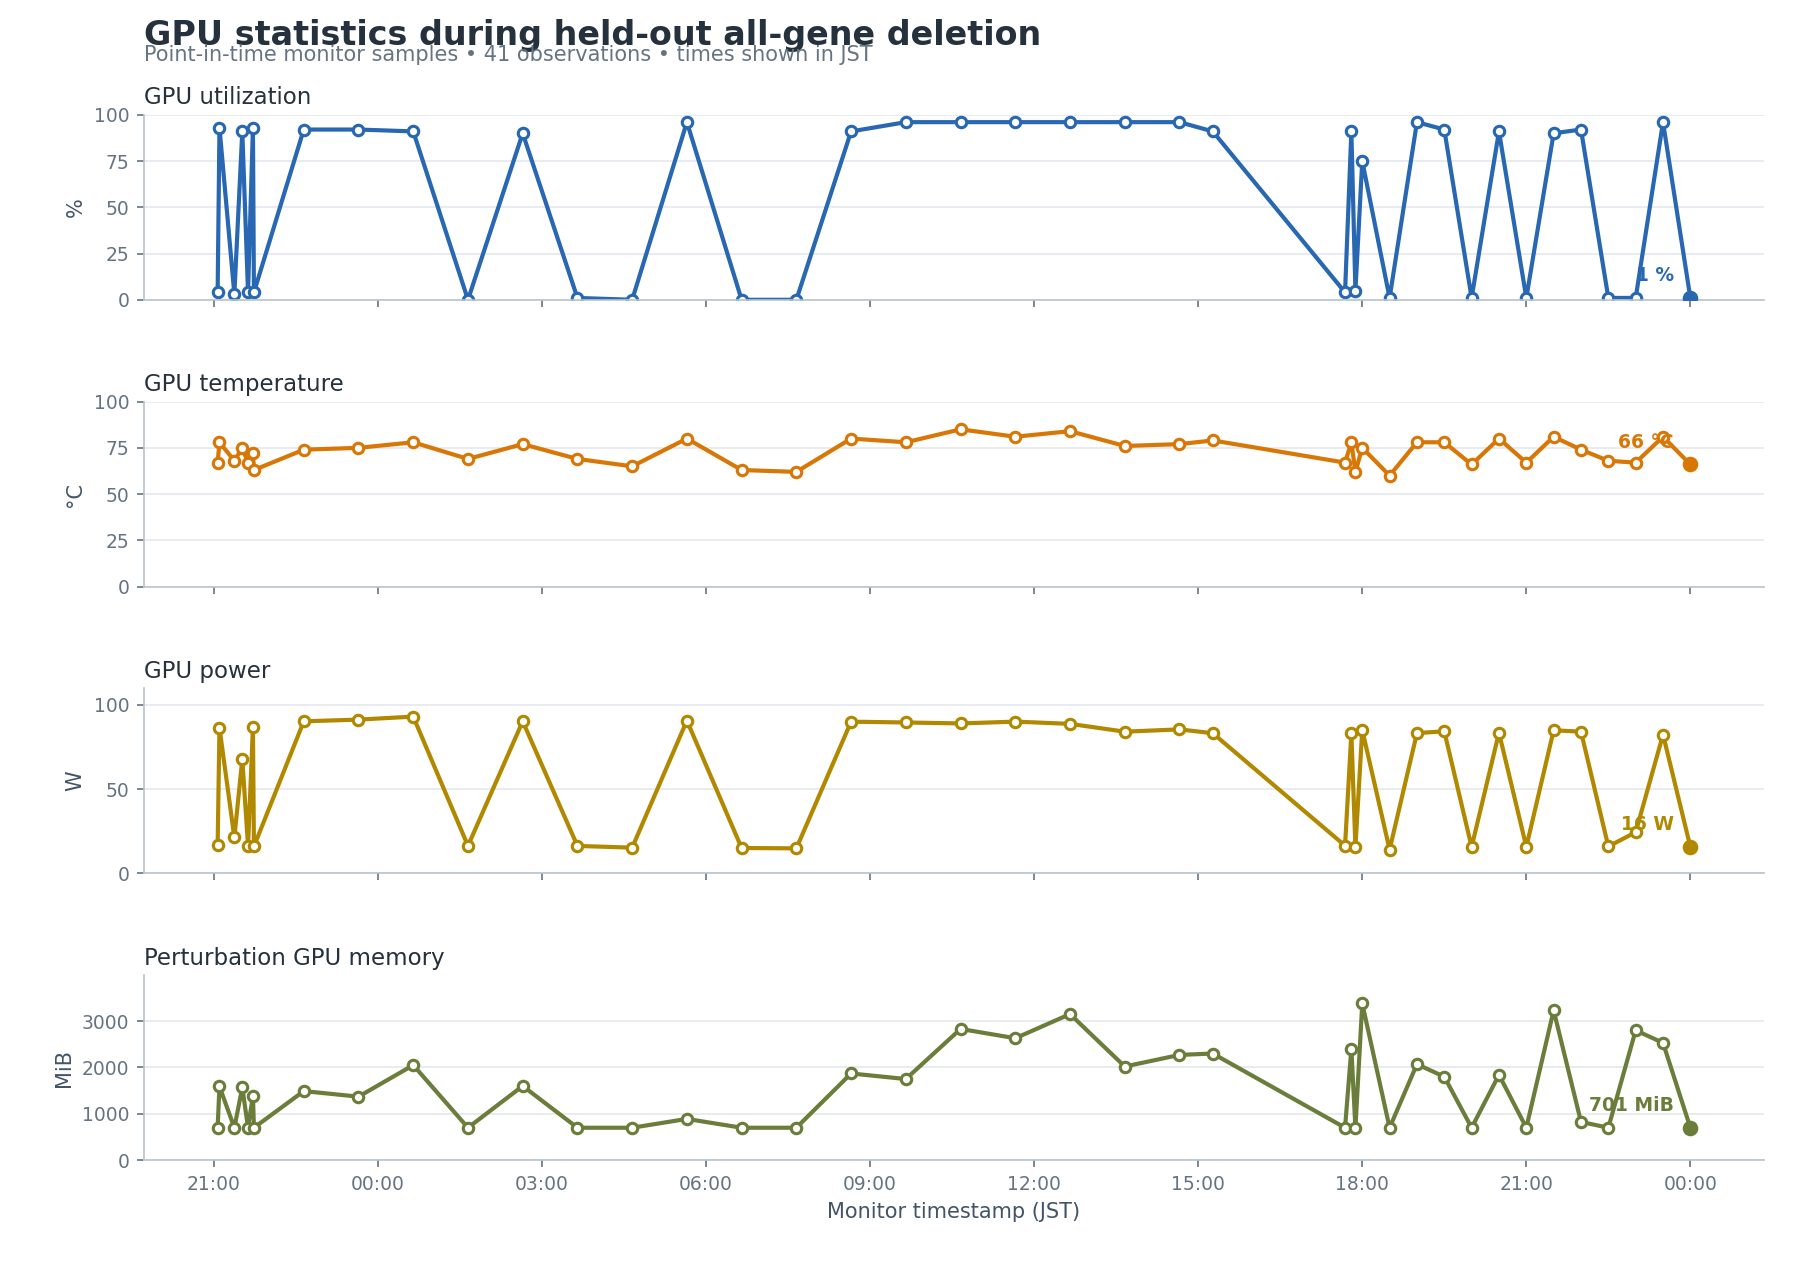
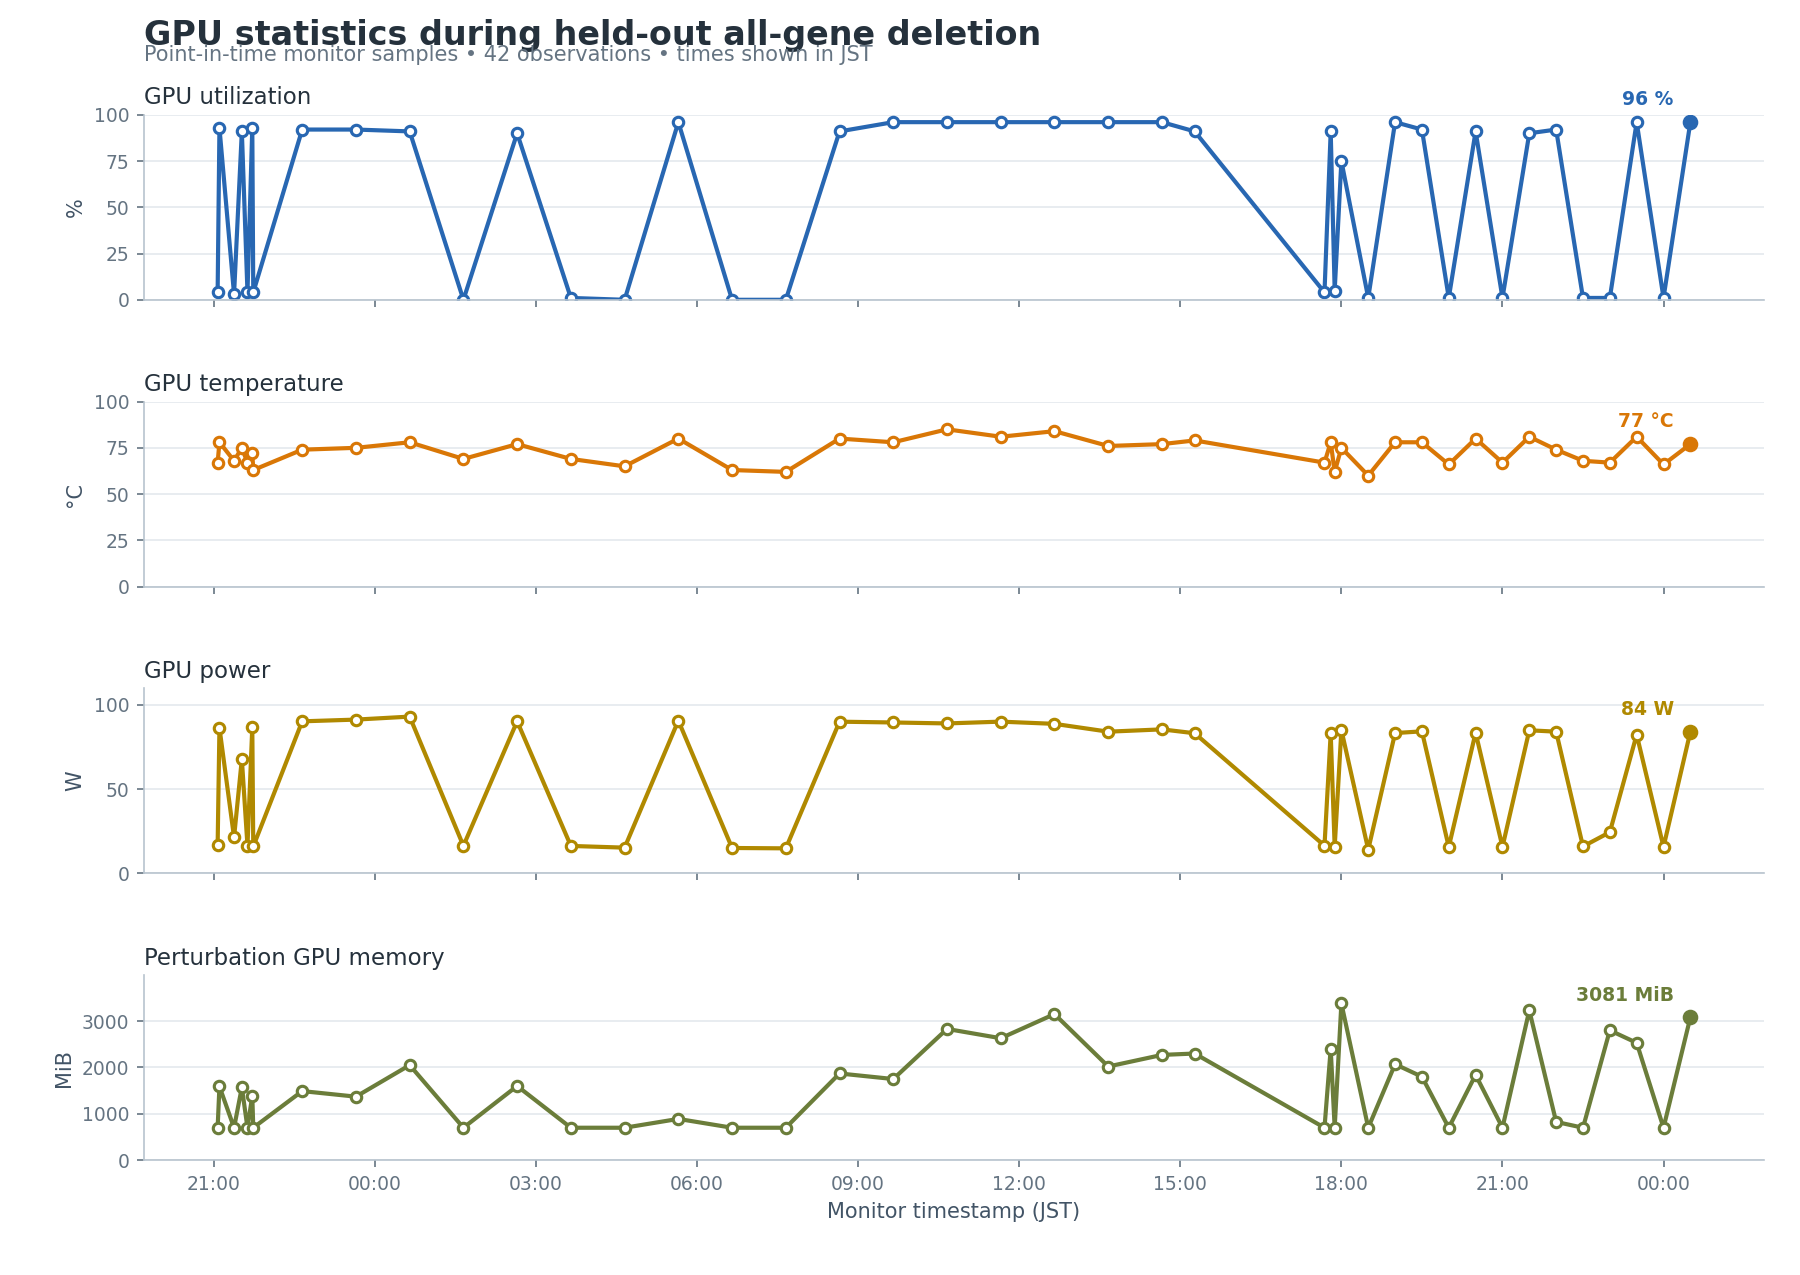
monitor: update perturbation status 2026-07-19 00:30 JST

diff --git a/current_workflow/monitoring/GPU_PROGRESS_REPORT.md b/current_workflow/monitoring/GPU_PROGRESS_REPORT.md
@@ -15,6 +15,7 @@ Newest refreshes are appended at the top and retained for the most recent
 48 runs.
 
 <!-- JOB_RUN_SUMMARIES_START -->
+- **2026-07-19T00:30:01+09:00** — RUNNING; 3,221 / 3,379 cells (95.32%). The run advanced by 55 cells and 3 shards, lifting completion from 93.70% to 95.32%. LUSC remained complete; LUAD remained complete; NORMAL moved from 1,195 to 1,250 cells; GPU utilization rose from 1% to 96%.
 - **2026-07-19T00:00:01+09:00** — RUNNING; 3,166 / 3,379 cells (93.70%). The run advanced by 42 cells and 1 shards, lifting completion from 92.45% to 93.70%. LUSC remained complete; LUAD remained complete; NORMAL moved from 1,153 to 1,195 cells; GPU utilization fell from 96% to 1%.
 - **2026-07-18T23:30:01+09:00** — RUNNING; 3,124 / 3,379 cells (92.45%). The run advanced by 49 cells and 2 shards, lifting completion from 91.00% to 92.45%. LUSC remained complete; LUAD remained complete; NORMAL moved from 1,104 to 1,153 cells; GPU utilization rose from 1% to 96%.
 - **2026-07-18T23:00:01+09:00** — RUNNING; 3,075 / 3,379 cells (91.00%). The run advanced by 43 cells and 2 shards, lifting completion from 89.73% to 91.00%. LUSC remained complete; LUAD remained complete; NORMAL moved from 1,061 to 1,104 cells; GPU utilization stayed at 1%.
@@ -35,20 +36,20 @@ Newest refreshes are appended at the top and retained for the most recent
 
 ## Current snapshot
 
-**What changed since the prior report:** The run advanced by 42 cells and 1 shards, lifting completion from 92.45% to 93.70%. LUSC remained complete; LUAD remained complete; NORMAL moved from 1,153 to 1,195 cells; GPU utilization fell from 96% to 1%.
+**What changed since the prior report:** The run advanced by 55 cells and 3 shards, lifting completion from 93.70% to 95.32%. LUSC remained complete; LUAD remained complete; NORMAL moved from 1,195 to 1,250 cells; GPU utilization rose from 1% to 96%.
 
 | Metric | Value |
 | --- | --- |
-| Generated | 2026-07-19T00:00:01+09:00 |
+| Generated | 2026-07-19T00:30:01+09:00 |
 | Run status | RUNNING |
-| Overall cell progress | 3,166 / 3,379 (93.70%) |
+| Overall cell progress | 3,221 / 3,379 (95.32%) |
 | GPU | NVIDIA GB10 |
-| GPU utilization | 1% |
-| GPU temperature | 66 C |
-| GPU power | 15.8 W |
-| Perturbation GPU memory | 701 MiB |
-| System memory used | 41.4 GiB |
-| System memory available | 78.3 GiB |
+| GPU utilization | 96% |
+| GPU temperature | 77 C |
+| GPU power | 84.1 W |
+| Perturbation GPU memory | 3,081 MiB |
+| System memory used | 39.6 GiB |
+| System memory available | 80.1 GiB |
 | Swap used | 0.0 GiB |
 
 ### Progress by source
@@ -57,11 +58,11 @@ Newest refreshes are appended at the top and retained for the most recent
 | --- | --- | --- | --- | --- |
 | LUSC | 560 / 560 (100.00%) | 23 / 23 | 1,120 | 348,313 / 348,313 |
 | LUAD | 1,411 / 1,411 (100.00%) | 57 / 57 | 2,822 | 1,150,097 / 1,150,097 |
-| NORMAL | 1,195 / 1,408 (84.87%) | 47 / 57 | 2,405 | 1,209,636 / 1,439,366 |
+| NORMAL | 1,250 / 1,408 (88.78%) | 50 / 57 | 2,516 | 1,282,600 / 1,439,366 |
 
 ## Final statistical comparisons
 
-**0 / 6 comparisons are complete. Final aggregation waits for the deletion screen, currently 127 / 137 shards.**
+**0 / 6 comparisons are complete. Final aggregation waits for the deletion screen, currently 130 / 137 shards.**
 
 | Comparison | State | Result rows | Updated | Output |
 | --- | --- | --- | --- | --- |
@@ -86,6 +87,7 @@ The history table below shows the newest samples first.
 
 | Timestamp | Cells | Progress | GPU util | Temp | Power | Shards |
 | --- | --- | --- | --- | --- | --- | --- |
+| 2026-07-19T00:30:01+09:00 | 3,221 | 95.32% | 96% | 77 C | 84.1 W | 130 |
 | 2026-07-19T00:00:01+09:00 | 3,166 | 93.70% | 1% | 66 C | 15.8 W | 127 |
 | 2026-07-18T23:30:01+09:00 | 3,124 | 92.45% | 96% | 81 C | 82.4 W | 126 |
 | 2026-07-18T23:00:01+09:00 | 3,075 | 91.00% | 1% | 67 C | 24.5 W | 124 |
@@ -93,7 +95,6 @@ The history table below shows the newest samples first.
 | 2026-07-18T22:00:01+09:00 | 2,990 | 88.49% | 92% | 74 C | 84.2 W | 120 |
 | 2026-07-18T21:30:01+09:00 | 2,948 | 87.24% | 90% | 81 C | 85.0 W | 119 |
 | 2026-07-18T21:00:02+09:00 | 2,904 | 85.94% | 1% | 67 C | 15.8 W | 117 |
-| 2026-07-18T20:30:01+09:00 | 2,859 | 84.61% | 91% | 80 C | 83.5 W | 115 |
 
 ## Job notes
 
